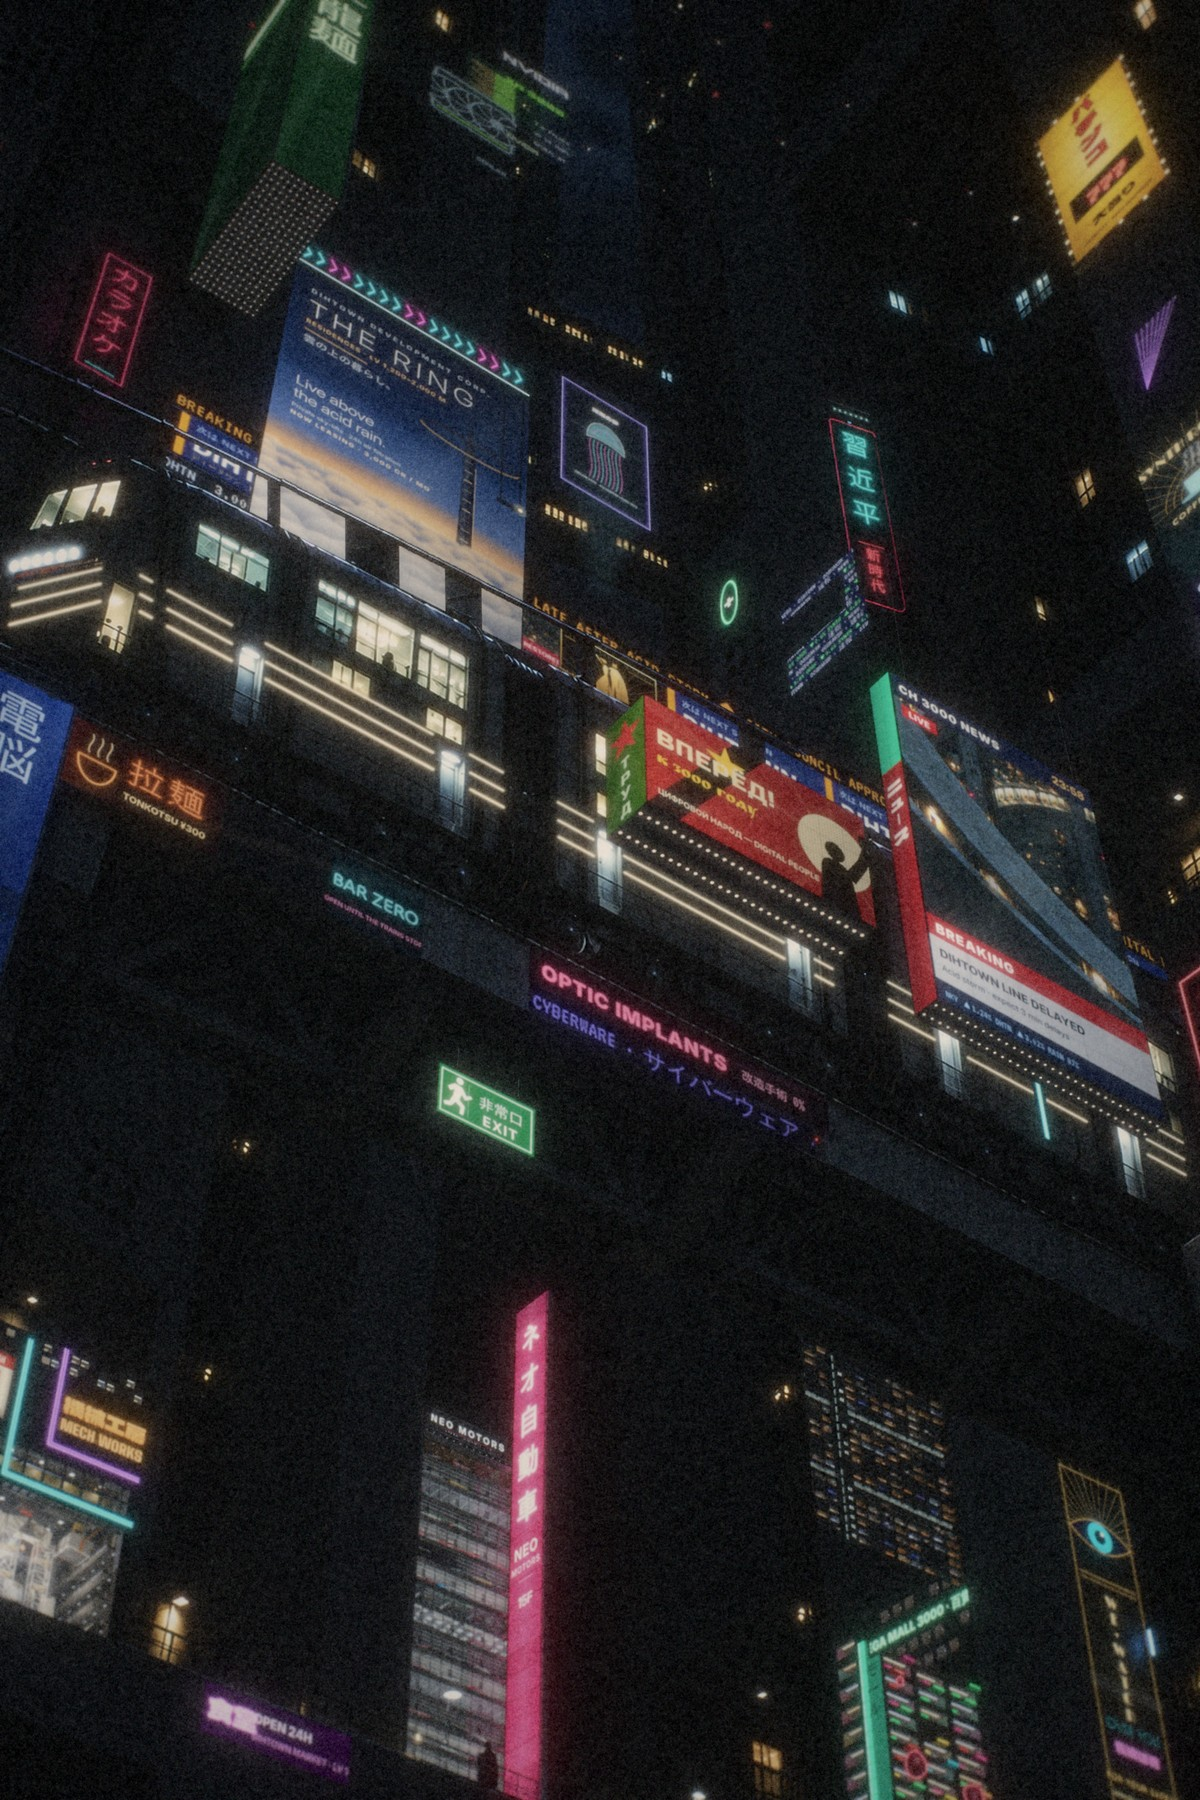
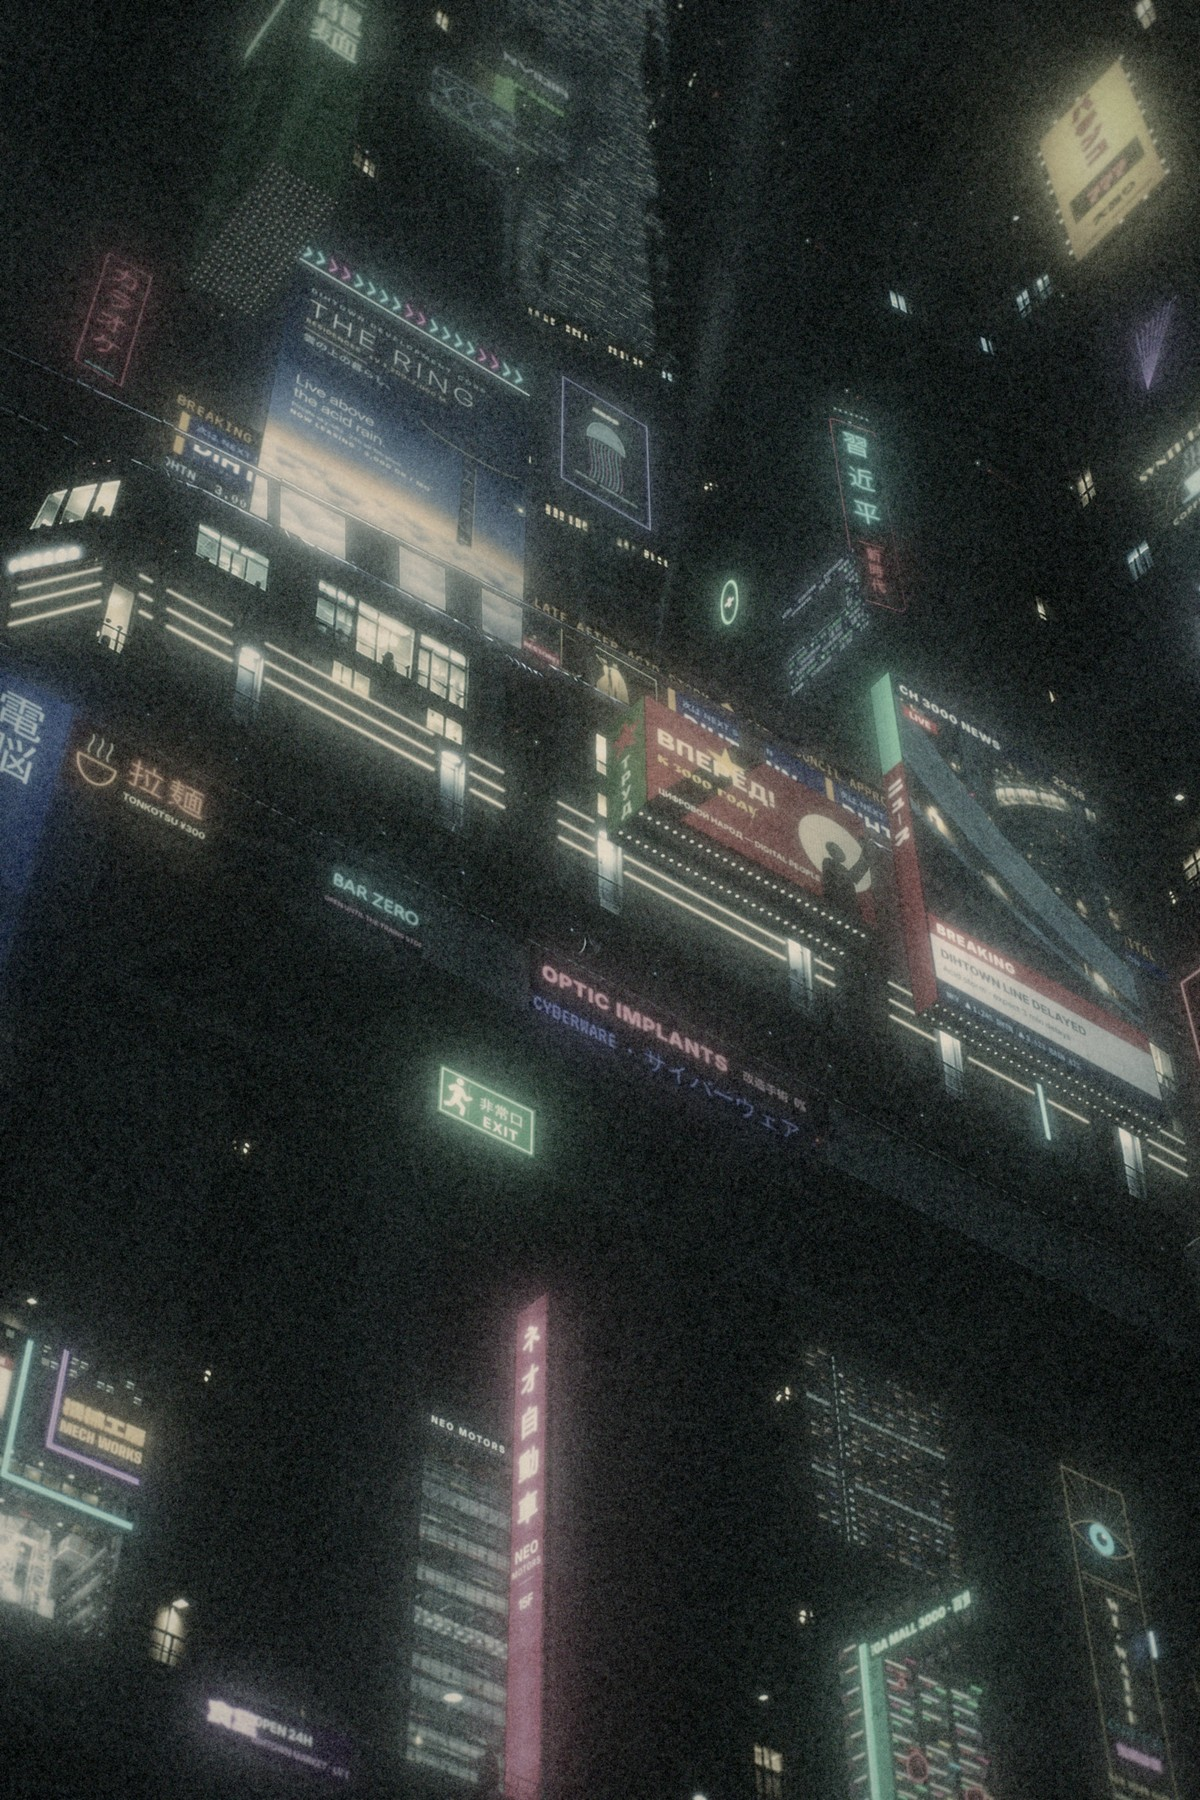
Cinematic style pass: poster bloom, atmosphere, fine detail, dither variant
Adds diffuse bloom around the big posters, an atmosphere/detail stage
(distant tower city through the voids, flying vehicles, searchlights,
layered haze lit by the signs, recovered concrete texture), a cinematic
teal-green film grade with heavier grain, and a gold dithered variant.
The clean Portra render is kept alongside.

Claude-Session: https://claude.ai/code/session_01MhhnmDegvsiUUN8kXwzwEG

diff --git a/pipeline/scripts/atmos.py b/pipeline/scripts/atmos.py
@@ -1,0 +1,172 @@
+#!/usr/bin/env python3
+"""Atmosphere + fine-detail stage (runs between composite.py and lens.py).
+
+usage: python3 -I scripts/atmos.py IN_2x.png OUT_2x.png [--fog 1.0] [--seed 7]
+
+Adds the cinematic megacity texture of the style references:
+  1. fine surface texture: local-contrast recovery on the photo's concrete
+  2. deep distant city: far facade planes (projected through the solved camera, so they obey the
+     same three-point perspective) carrying thousands of tiny lit windows, visible only through
+     the voids/sky in the megastructure, fading with distance into haze
+  3. flying vehicles in traffic lanes parallel to the train, sized by depth, with running lights
+  4. two volumetric searchlight beams
+  5. layered, textured haze that thickens with height and is lit by nearby light (signs glow in it)
+"""
+import argparse, json, os
+import numpy as np, cv2
+from PIL import Image
+
+ROOT = os.path.dirname(os.path.dirname(os.path.abspath(__file__)))
+
+
+def s2l(x): return np.where(x <= 0.04045, x / 12.92, ((x + 0.055) / 1.055) ** 2.4).astype(np.float32)
+def l2s(x):
+    x = np.clip(x, 0, None)
+    return np.where(x <= 0.0031308, x * 12.92, 1.055 * np.power(x, 1 / 2.4) - 0.055).astype(np.float32)
+def blur(a, s): return cv2.GaussianBlur(a, (0, 0), s, borderType=cv2.BORDER_REFLECT) if s > 0 else a
+def lum(x): return 0.2126 * x[..., 0] + 0.7152 * x[..., 1] + 0.0722 * x[..., 2]
+
+
+def fbm(h, w, rng, scales=(512, 256, 128, 64), amps=(1, .55, .3, .16)):
+    n = np.zeros((h, w), np.float32)
+    for sc, a in zip(scales, amps):
+        g = rng.standard_normal((h // sc + 3, w // sc + 3)).astype(np.float32)
+        n += a * cv2.resize(g, (w + 3 * sc, h + 3 * sc), interpolation=cv2.INTER_CUBIC)[:h, :w]
+    return (n - n.mean()) / (n.std() + 1e-6)
+
+
+def main():
+    ap = argparse.ArgumentParser(); ap.add_argument('inp'); ap.add_argument('out')
+    ap.add_argument('--fog', type=float, default=1.0); ap.add_argument('--seed', type=int, default=7)
+    ap.add_argument('--base', default=os.path.join(ROOT, 'scene', 'base.png'))
+    a = ap.parse_args()
+    rng = np.random.default_rng(a.seed)
+    img = np.asarray(Image.open(a.inp).convert('RGB'), np.float32) / 255
+    base = np.asarray(Image.open(a.base).convert('RGB'), np.float32) / 255
+    H, W = img.shape[:2]
+    sc = W / 1455.0                                     # page -> image scale
+    cam = json.load(open(os.path.join(ROOT, 'scene', 'camera.json')))
+    K = np.array(cam['K']); K[:2] *= sc
+    up, d1, d2 = (np.array(cam[k]) for k in ('dv', 'd1', 'd2'))
+    Ki = np.linalg.inv(K)
+    lin = s2l(img)
+
+    # ---- 1. fine texture: recover local contrast in the (upscaled, soft) photograph -------------------
+    L = lum(lin)
+    detail = l2s(L) - l2s(blur(L, 5 * sc / 2))
+    changed = np.clip(np.abs(img - base).sum(-1) * 6, 0, 1)           # 1 where signage was drawn
+    lin = s2l(np.clip(img + (0.55 * detail * (1 - changed))[..., None], 0, 1))
+
+    # ---- 2. voids: where the photo shows deep blue-dark space through the megastructure ------------------
+    b8 = (base * 255).astype(np.int16)
+    gb = cv2.cvtColor((base * 255).astype(np.uint8), cv2.COLOR_RGB2GRAY)
+    tex = np.abs(cv2.Laplacian(cv2.GaussianBlur(gb, (0, 0), 2), cv2.CV_32F))
+    void = ((b8[..., 2] - b8[..., 0]) > 5) & (gb < 75) & (tex < 1.6)
+    yy, xx = np.mgrid[0:H, 0:W]
+    void &= (xx > 600 * sc) & (xx < 800 * sc) & (yy < 880 * sc)
+    void = cv2.morphologyEx(void.astype(np.uint8), cv2.MORPH_CLOSE, np.ones((9, 9), np.uint8))
+    void = cv2.morphologyEx(void, cv2.MORPH_OPEN, np.ones((5, 5), np.uint8)).astype(np.float32)
+    void = blur(void, 2.0) * (1 - changed)
+    void_soft = blur(void, 25)
+
+    # distant city: towers on far facade planes (A: along the train direction) at several depths.
+    # Each tower is a dark silhouette against the hazy sky glow; its floors carry runs of lit window strips.
+    def proj(P):
+        q = P @ K.T
+        return q[:, :2] / q[:, 2:3]
+    centre_ray = Ki @ np.array([700 * sc, 320 * sc, 1.0]); centre_ray /= np.linalg.norm(centre_ray)
+    sky_glow = np.stack([np.full((H, W), .012), np.full((H, W), .020), np.full((H, W), .026)], -1).astype(np.float32)
+    sky_glow *= (1.7 - 1.2 * yy / H)[..., None]
+    city = sky_glow.copy()
+    for depth, haze in ((9.0, .70), (5.5, .50), (3.2, .28)):          # far -> near (painter's order)
+        X0 = centre_ray * depth
+        sil = np.zeros((H, W), np.float32); win = np.zeros((H, W, 3), np.float32)
+        s_pos = -1.0 * depth / 3
+        while s_pos < 1.0 * depth / 3:
+            tw = (0.05 + rng.random() * 0.12) * depth / 3          # tower width
+            gap = (0.01 + rng.random() * 0.05) * depth / 3
+            top = -(1.5 + rng.random() * 2.0) * depth / 3          # tower top (t grows downward)
+            corners = proj(np.array([X0 + s_pos * d1 + top * up, X0 + (s_pos + tw) * d1 + top * up,
+                                      X0 + (s_pos + tw) * d1 + 2.0 * up * -1, X0 + s_pos * d1 + 2.0 * up * -1]))
+            cv2.fillPoly(sil, [corners.astype(np.int32)], 1.0, lineType=cv2.LINE_AA)
+            fh = 0.0042 * depth / 3                                 # floor height
+            ww = 0.0026 * depth / 3                                 # window pitch
+            t = top + fh
+            while t < 1.0:
+                if rng.random() < 0.32:                             # this floor has lit runs
+                    x = s_pos + ww
+                    while x < s_pos + tw - ww:
+                        run = int(rng.integers(2, 10)) if rng.random() < .33 else 0
+                        col = (1.0, .74, .42) if rng.random() < .7 else (.72, .86, 1.0)
+                        inten = 0.6 + 0.5 * rng.random()
+                        for _ in range(run):
+                            if x > s_pos + tw - ww: break
+                            p = proj(np.array([X0 + x * d1 - t * up, X0 + (x + ww * .62) * d1 - t * up]))
+                            cv2.line(win, tuple(np.round(p[0]).astype(int)), tuple(np.round(p[1]).astype(int)),
+                                     tuple(c * inten for c in col), 1, cv2.LINE_AA)
+                            x += ww
+                        x += ww * int(rng.integers(1, 8))
+                t += fh
+            s_pos += tw + gap
+        k = 1 - haze
+        city = city * (1 - sil[..., None] * (0.55 + 0.35 * k)) + win * (0.8 * k) * 1.0 + blur(win, 2.0) * 0.5 * k
+    void_m = np.clip(blur(void, 6) * 1.25, 0, 1) ** 1.3
+    lin = lin * (1 - 0.8 * void_m[..., None]) + (city + lin * 0.25) * void_m[..., None]
+
+    # ---- 3. flying vehicles in lanes parallel to the train ---------------------------------------------
+    veh = np.zeros((H, W, 4), np.float32)
+    seeds = rng.random((18, 3))
+    drawn = 0
+    for u, v, r in seeds:
+        px, py = (80 + u * 1300) * sc, (20 + v * 980) * sc
+        X = Ki @ np.array([px, py, 1.0]); X /= np.linalg.norm(X); X *= 1.2 + 2.5 * (1 - v)
+        dirv = d1 if r < .6 else -d1
+        size = 0.007
+        P = np.array([X - dirv * size, X + dirv * size, X - dirv * size + up * size * .3, X + dirv * size + up * size * .25])
+        q = proj(P)
+        tail, head, tailtop, headtop = q
+        Lpx = np.linalg.norm(head - tail)
+        if Lpx < 8 * sc / 2 or Lpx > 50 * sc / 2: continue
+        if lum(lin[int(py) % H, int(px) % W]) > 0.02: continue            # keep them over dark sky/facade
+        hull = np.array([tail, (tail + tailtop) / 2, headtop, head]).astype(np.int32)
+        cv2.fillPoly(veh, [hull], (0.012, 0.013, 0.015, 1.0), lineType=cv2.LINE_AA)
+        hx, hy = head.astype(int); tx, ty = tail.astype(int)
+        cv2.circle(veh, (hx, hy), max(1, int(sc * .8)), (1.0, .95, .85, 1.0), -1, cv2.LINE_AA)
+        cv2.circle(veh, (tx, ty), max(1, int(sc * .6)), (1.0, .12, .08, 1.0), -1, cv2.LINE_AA)
+        trail_end = tail - (head - tail) * 2.5
+        cv2.line(veh, (tx, ty), tuple(trail_end.astype(int)), (.35, .04, .03, .18), max(1, int(sc * .4)), cv2.LINE_AA)
+        drawn += 1
+    va = veh[..., 3:4]
+    lights = np.clip(veh[..., :3] - 0.02, 0, None) * va
+    lin = lin * (1 - va) + veh[..., :3] * va + blur(lights, 3 * sc / 2) * 1.5
+
+    # ---- 4. searchlight beams (volumetric, additive) ----------------------------------------------------
+    beams = np.zeros((H, W), np.float32)
+    for (x0, y0, x1, y1, w0, w1) in ((690, 860, 560, -200, 4, 60), (760, 820, 980, -200, 4, 50)):
+        p0, p1 = np.array([x0, y0]) * sc, np.array([x1, y1]) * sc
+        dvec = p1 - p0; Lb = np.linalg.norm(dvec); dn = dvec / Lb; nn = np.array([-dn[1], dn[0]])
+        rel = np.stack([xx - p0[0], yy - p0[1]], -1).astype(np.float32)
+        along = rel @ dn; across = rel @ nn
+        t = np.clip(along / Lb, 0, 1)
+        width = (w0 + (w1 - w0) * t) * sc
+        prof = np.exp(-(across / (width + 1e-3)) ** 2 * 2.0) * (along > 0) * (along < Lb)
+        beams += prof * (0.6 + 0.4 * (1 - t))
+    beam_tex = 0.75 + 0.25 * fbm(H, W, rng, scales=(256, 64), amps=(1, .5))
+    lin = lin + (beams * beam_tex * (0.35 + 0.65 * void_soft / (void_soft.max() + 1e-6)) * 0.06)[..., None] * np.array([.75, .9, 1.0], np.float32)
+
+    # ---- 5. layered textured haze, thicker with height, lit by its surroundings --------------------------
+    far = (1 - yy / H).astype(np.float32) ** 1.25
+    noise = fbm(H, W, rng)
+    dens = (0.02 + 0.22 * far ** 1.4) * (0.75 + 0.35 * noise) * a.fog
+    dens = np.clip(dens, 0, 0.5)[..., None]
+    fog_col = np.array([0.012, 0.017, 0.017], np.float32)            # green-grey night haze
+    lit_fog = fog_col + blur(lin, 40 * sc / 2) * 0.6 + blur(lin, 120 * sc / 2) * 0.12
+    lin = lin * (1 - dens) + lit_fog * dens
+
+    out = l2s(lin)
+    Image.fromarray((np.clip(out, 0, 1) * 255 + .5).astype(np.uint8)).save(a.out)
+    print(f'atmos: {a.inp} -> {a.out}  void px {int(void.sum())}  vehicles {drawn}')
+
+
+if __name__ == '__main__':
+    main()

diff --git a/pipeline/scripts/dither.py b/pipeline/scripts/dither.py
@@ -1,0 +1,54 @@
+#!/usr/bin/env python3
+"""Retro dithered variant (gold/black/blue, ordered Bayer dither on a visible pixel grid).
+
+usage: python3 -I scripts/dither.py IN.png OUT.png [--cell 3] [--width 2400]
+Reads a clean (pre-grain) frame, maps it onto two short palettes - a gold ramp for lights and
+architecture and a blue ramp for sky/voids - and dithers between neighbouring levels with an 8x8 Bayer
+matrix at a coarse pixel size, then scales up with nearest-neighbour so the pixel grid stays crisp.
+"""
+import argparse
+import numpy as np
+from PIL import Image, ImageFilter
+
+GOLD = np.array([[0, 0, 0], [38, 32, 12], [92, 76, 30], [160, 132, 58], [214, 186, 104], [246, 228, 160]], np.float32)
+BLUE = np.array([[0, 0, 0], [22, 30, 54], [48, 66, 110], [92, 112, 156], [150, 168, 200]], np.float32)
+
+
+def bayer(n):
+    m = np.array([[0, 2], [3, 1]])
+    while m.shape[0] < n:
+        m = np.block([[4 * m, 4 * m + 2], [4 * m + 3, 4 * m + 1]])
+    return (m + 0.5) / m.size
+
+
+def ramp_dither(t, pal, thr):
+    """t in [0,1] -> index along palette with ordered dithering"""
+    x = t * (len(pal) - 1)
+    lo = np.floor(x).astype(int); fr = x - lo
+    idx = np.clip(lo + (fr > thr), 0, len(pal) - 1)
+    return pal[idx]
+
+
+def main():
+    ap = argparse.ArgumentParser(); ap.add_argument('inp'); ap.add_argument('out')
+    ap.add_argument('--cell', type=int, default=3); ap.add_argument('--width', type=int, default=2400)
+    a = ap.parse_args()
+    im = Image.open(a.inp).convert('RGB')
+    W0, H0 = im.size
+    w, h = a.width // a.cell, int(round(H0 * (a.width / W0))) // a.cell
+    small = np.asarray(im.resize((w, h), Image.LANCZOS), np.float32) / 255
+    R, G, B = small[..., 0], small[..., 1], small[..., 2]
+    L = 0.2126 * R + 0.7152 * G + 0.0722 * B
+    t = np.clip((np.maximum(L - 0.025, 0) / 0.62) ** 0.85, 0, 1)   # night stays mostly black; light reads gold
+    sm = np.asarray(Image.fromarray((small * 255).astype(np.uint8)).filter(ImageFilter.GaussianBlur(6)), np.float32) / 255
+    bl = sm[..., 2] - np.maximum(sm[..., 0], sm[..., 1])
+    blue = (bl > 0.012) & (sm.mean(-1) < 0.09) & (L < 0.12)     # only the darkest blue: sky gap / deep voids
+    thr = np.tile(bayer(8), (h // 8 + 1, w // 8 + 1))[:h, :w]
+    out = np.where(blue[..., None], ramp_dither(np.clip(t * 0.9, 0, 1), BLUE, thr), ramp_dither(t, GOLD, thr))
+    img = Image.fromarray(out.astype(np.uint8)).resize((w * a.cell, h * a.cell), Image.NEAREST)
+    img.save(a.out)
+    print('dither:', a.inp, '->', a.out, img.size)
+
+
+if __name__ == '__main__':
+    main()

diff --git a/pipeline/scripts/film.py b/pipeline/scripts/film.py
@@ -52,6 +52,8 @@ def main():
     ap.add_argument('--halation', type=float, default=1.0)
     ap.add_argument('--exposure', type=float, default=0.0, help='stops')
     ap.add_argument('--jpeg', default=None, help='also write a JPEG (quality 95) here')
+    ap.add_argument('--look', default='portra', choices=['portra', 'cinematic'],
+                    help='cinematic = desaturated teal-green night grade, lifted hazy blacks, heavier grain')
     a = ap.parse_args()
 
     img = np.asarray(Image.open(a.inp).convert('RGB'), np.float32) / 255.0
@@ -88,10 +90,23 @@ def main():
     h = smoothstep(0.08, 0.7, Ly)
     y = y * (1 + h * np.array([0.045, 0.012, -0.05], np.float32)) * (1 + (1 - h) * np.array([-0.02, 0.005, 0.03], np.float32))
 
+    # 4b. cinematic grade (style references): near-monochrome, teal-green shadows, warm sodium highlights
+    if a.look == 'cinematic':
+        Ly = luma(y)[..., None]
+        h = smoothstep(0.02, 0.6, Ly)
+        satk = 0.42 + 0.3 * smoothstep(0.25, 1.0, Ly)        # keep a little more colour in bright neon cores
+        y = Ly + (y - Ly) * satk
+        y = y * (1 + (1 - h) * np.array([-0.16, 0.05, -0.02], np.float32)) * (1 + h * np.array([0.07, 0.015, -0.10], np.float32))
+
     # 5. scan: back to display, gentle midtone contrast, unsharp mask on luminance
     g = l2s(y)
     g = np.clip(g, 0, 1)
-    g = g + 0.06 * (g - 0.5) * (1 - np.abs(2 * g - 1))
+    if a.look == 'cinematic':
+        lift = np.array([0.022, 0.031, 0.028], np.float32)      # blacks sit in green-grey haze
+        g = lift + g * (1 - lift) * 0.97
+        g = g + 0.10 * (g - 0.5) * (1 - np.abs(2 * g - 1))
+    else:
+        g = g + 0.06 * (g - 0.5) * (1 - np.abs(2 * g - 1))
     lum_s = luma(g)
     usm = lum_s - blur(lum_s, 1.3 * k)
     g = g + (0.45 * usm)[..., None]
@@ -106,7 +121,7 @@ def main():
     gl /= gl.std()
     ls = np.clip(luma(np.clip(g, 0, 1)), 0, 1)
     amp = 0.006 + 0.019 * np.exp(-((ls - 0.22) / 0.26) ** 2) + 0.006 * (1 - ls)   # peaks in shadows/midtones
-    amp *= a.grain
+    amp *= a.grain * (1.3 if a.look == 'cinematic' else 1.0)
     chroma = np.stack([octave(1.6 * k) for _ in range(3)], -1)
     chroma -= chroma.mean(-1, keepdims=True)
     g = g + (gl * amp)[..., None] + chroma * (amp * 0.2)[..., None]

diff --git a/pipeline/scripts/composite.py b/pipeline/scripts/composite.py
@@ -71,6 +71,13 @@ bright = np.maximum(out - 0.3, 0)
 bloom = gblur(bright, 3) * 0.22 + gblur(bright, 10) * 0.18 + gblur(bright, 32) * 0.12 + gblur(bright, 100) * 0.03
 out = out + bloom
 
+# 2b) diffuse light bloom: big bright posters scatter light into the night haze and the lens.
+#     Emission convolved with a wide multi-scale PSF -> large emitters get large soft halos, small neon stays tight.
+yy0 = np.linspace(1, 0, H, dtype=np.float32)[:, None, None]
+k2 = W / 2910.0
+glow = gblur(E, 16 * k2) * 0.55 + gblur(E, 50 * k2) * 0.50 + gblur(E, 130 * k2) * 0.20
+out = out + glow * (0.85 + 0.45 * yy0) * (1 - 0.6 * M)
+
 # 3) atmospheric perspective: the tower is ~2 km tall, so signs higher in frame are farther away
 #    -> lower contrast, lifted toward the night-haze colour, softer
 yy = np.linspace(1, 0, H, dtype=np.float32)[:, None, None]   # 1 at top (far), 0 at bottom

diff --git a/pipeline/README.md b/pipeline/README.md
@@ -4,7 +4,7 @@ Turns `building 1.ai` into a photographic night render: every coloured block dra
 reference photo is replaced by the sign/shop described in its text label, projected with the
 photo's real perspective, then "shot" through a Nikon F3 + 20mm f/2.8 on Kodak Portra 400.
 
-Final image: [`../render/building_1_render.jpg`](../render/building_1_render.jpg) (2400x3600, 2:3).
+Final images (2400x3600, 2:3): [`building_1_render.jpg`](../render/building_1_render.jpg) (cinematic), [`building_1_render_portra.jpg`](../render/building_1_render_portra.jpg) (clean Portra, strong poster bloom), [`building_1_render_dither.png`](../render/building_1_render_dither.png) (retro dither).
 
 ## Stages
 
@@ -16,16 +16,20 @@ Final image: [`../render/building_1_render.jpg`](../render/building_1_render.jpg
 | 4 | `scripts/geometry.py` | Rebuilds each hand-drawn block as a true rectangle on its facade plane (or a 3-D box), with metric aspect ratio and a 3-D frame for depth work -> `scene/signs.js`. |
 | 5 | `scene/*.js` + `scripts/render.js` | Chromium renders the signs (perspective via CSS `matrix3d`), 3-D shop interiors (`depth.js`: recessed lit rooms, slabs, fins seen from below), and a matte (`foreground.js`) that puts the real train/overhead rail back in front of the facade signs. |
 | 6 | `scripts/composite.py` | Light spill onto the photo, bloom from bright sources, height haze (the tower is ~2 km tall), softness matched to the photo. |
+| 6b | `scripts/atmos.py` | Fine detail and atmosphere in the style of the references: local-contrast texture on the concrete, a distant tower city (far facade planes through the solved camera, floors of lit window strips) visible through the megastructure's voids, flying vehicles in lanes parallel to the train, searchlight beams, and layered textured haze that thickens with height and is lit by the signs. |
 | 7 | `scripts/lens.py` | Pure camera-rotation re-tilt (12 deg) for stronger converging verticals with true 3-point perspective, 35mm 2:3 crop, slight barrel distortion (-1.4% at corners), 1-stop vignette, lateral CA, corner softness. |
-| 8 | `scripts/film.py` | Portra 400 night emulation: halation, soft shoulder/toe, restrained neon saturation, warm highlights/cool shadows, lab-scan sharpening, density-dependent grain. |
+| 8 | `scripts/film.py` | Portra 400 night emulation: halation, soft shoulder/toe, restrained neon saturation, warm highlights/cool shadows, lab-scan sharpening, density-dependent grain. `--look cinematic` adds the near-monochrome teal-green grade with warm sodium highlights, hazy blacks and heavier grain. |
+| 9 | `scripts/dither.py` | Optional retro variant: gold/black/blue palette, ordered 8x8 Bayer dither on a 3-px grid. |
 
 ## Run (after stages 1-4 have produced `scene/` assets)
 
 ```sh
 node scripts/render.js scene/scene.html full out/full_2x.png 2
 python3 scripts/composite.py out/full_2x.png scene/base.png out/scene_2x.png
-python3 scripts/lens.py out/scene_2x.png out/stage_lens.png
-python3 scripts/film.py out/stage_lens.png out/final.png --jpeg out/final.jpg
+python3 scripts/atmos.py out/scene_2x.png out/atmos_2x.png
+python3 scripts/lens.py out/atmos_2x.png out/stage_lens.png
+python3 scripts/film.py out/stage_lens.png out/final.png --look cinematic --jpeg out/final.jpg
+python3 scripts/dither.py out/stage_lens.png out/final_dither.png   # optional retro variant
 ```
 
 Requires Python 3 (numpy, Pillow, opencv-python-headless, zstandard), Node + Playwright/Chromium,
